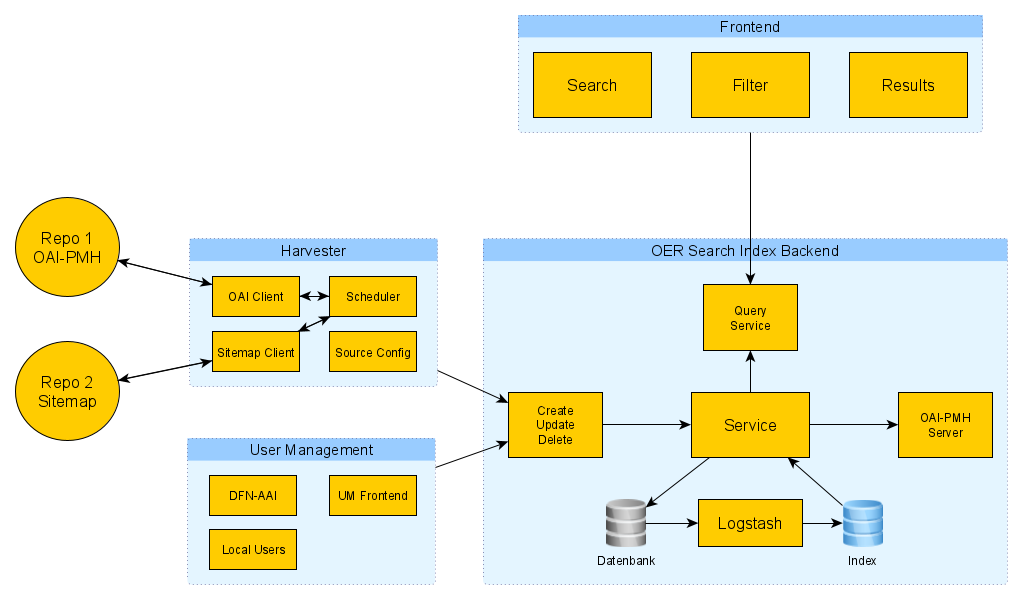
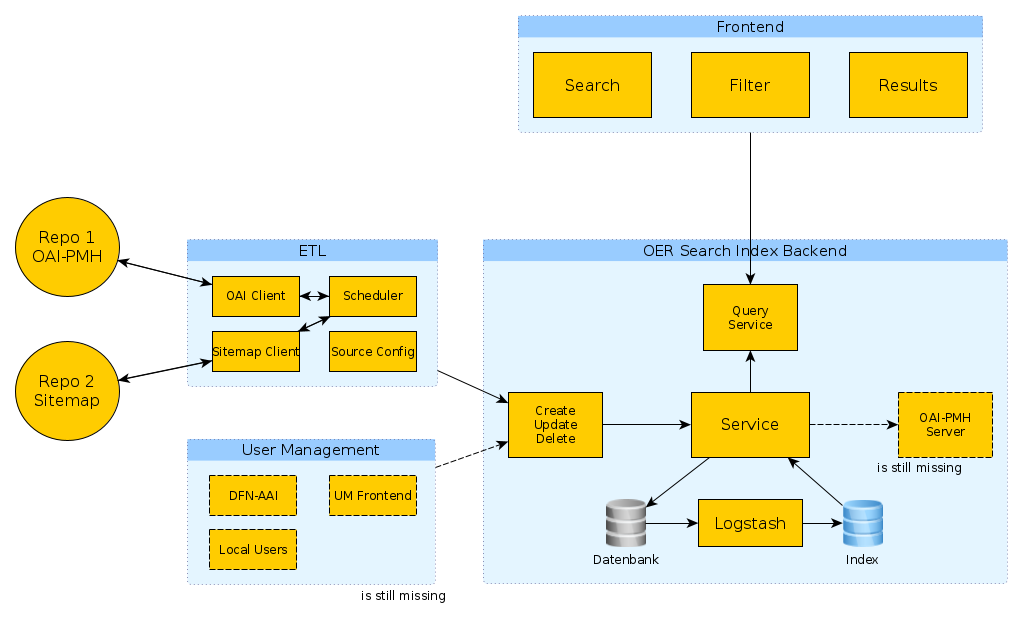
Updated readme

diff --git a/README.md b/README.md
@@ -1,14 +1,10 @@
-# **Under Development**
-
-first draft
-
 # OER Search Index Setup
 
-The search index offers the possibility to search quickly in various oer sources.
+The search index offers the possibility to search quickly in various oer sources (mainly in the context of higher education).
 
 With this project you can set up all components that are necessary to run the index. The process uses [ansible](https://docs.ansible.com/) to install the components.
 
-You can find stable versions of the setup in the branch **_master_** and also tagged fixed releases.
+You can find stable versions of the setup in the branch **_master_** and also tagged fixed releases - see https://gitlab.com/oersi/oersi-setup/-/releases.
 
 ## Concept
 
@@ -24,10 +20,10 @@ The same index can also be reused at the level of a federal state (or generally 
 
 ### Components
 
-* **Harvester**: The harvester connects to the individual repositories and fetches metadata updates according to a configured schedule (e.g. daily).
+* **ETL**: The ETL-module (extract, transform, load) connects to the individual repositories and fetches metadata updates according to a configured schedule (e.g. daily).
 * **API / Backend**: Provides interfaces to retrieve data from the index (external) and to import / update data into the index (internal). A read-only user is used to retrieve data. When creating / updating the data, the data is first written into an SQL database and from there written into an elasticsearch index with the help of logstash.
 * **Frontend**: Website that displays the data from the index and offers the possibility to search
-* **User Management**: _Optional_ - only needed if the index is used as a (local) standalone solution. So users can be given access to manually update the data via a UI.
+* **User Management**: (TDB) _Optional_ - only needed if the index is used as a (local) standalone solution. So users can be given access to manually update the data via a UI.
 
 ![Components OERSI](doc/images/OER-Search-Index-Components.png)
 
